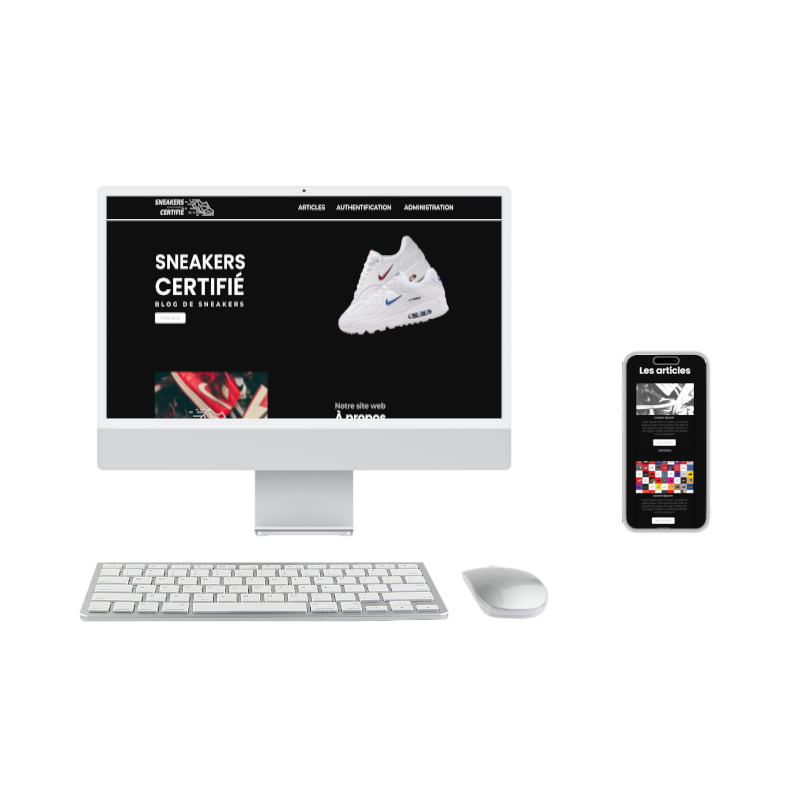
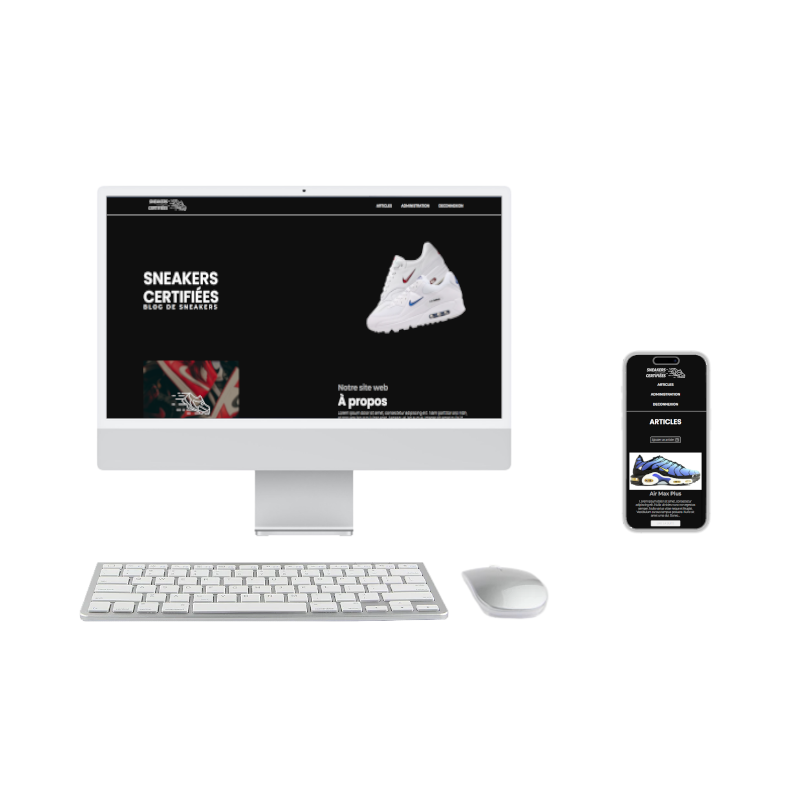
last commit

diff --git a/views/projects/sneakers-certifie.html b/views/projects/sneakers-certifie.html
@@ -28,18 +28,20 @@
         </nav>
         <section class="flex-center">
             <article>
-                <h1>SNEAKERS CERTIFIÉ</h1>
+                <h1>SNEAKERS CERTIFIÉES</h1>
                 <hr>
                 <h2>DESCRIPTION</h2>
-                <p>Ce projet a été réalisé lors de ma formation. Sneakers Certifié est un blog de chaussures fait avec une API REST que j'ai réalisé pour la première fois avec des JSON Web Token pour manipuler l'API.</p>
+                <p>Ce projet a été réalisé lors de ma formation. Sneakers Certifiées est un blog de chaussures où l'administrateur peut publier des articles sur des paires de sneakers. Les utilisateurs eux peuvent publier des commentaires.</p>
                 <hr>
                 <h3>TECHNOLOGIES</h3>
                 <div>
                     <img src="../../assets/img/logo-description/CSS.png" alt="">
                     <img src="../../assets/img/logo-description/JavaScript.png" alt="">
                     <img src="../../assets/img/logo-description/php.png" alt="">
-                    <img src="../../assets/img/logo-description/JWT.png" alt="">
                 </div>
+                <a href="https://github.com/LuigiG34/SneakersBlog" target="_blank" rel="noopener noreferrer">
+                    <button>Voir le code</button>
+                </a>
             </article>
             <article class="flex-center">
                 <img src="../../assets/img/desktop-mobile/sneakers-certifie.png" alt="">
@@ -48,7 +50,7 @@
 
         <hr>
         <footer>
-            <h3 class="text-center">MES RESEAUX</h3>
+            <h3 class="text-center">MES RÉSEAUX</h3>
             <section class="flex-center">
                 <a href="https://github.com/LuigiG34" target="_blank">
                     <img src="../../assets/img/icons/socials/github.svg" alt="">

diff --git a/views/projects/calculator.html b/views/projects/calculator.html
@@ -38,6 +38,12 @@
                     <img src="../../assets/img/logo-description/CSS.png" alt="">
                     <img src="../../assets/img/logo-description/JavaScript.png" alt="">
                 </div>
+                <a href="https://github.com/LuigiG34/CalculatorJS" target="_blank" rel="noopener noreferrer">
+                    <button>Voir le code</button>
+                </a>
+                <a href="https://luigig34.github.io/CalculatorJS/" target="_blank" rel="noopener noreferrer">
+                    <button>Voir le projet</button>
+                </a>
             </article>
             <article class="flex-center">
                 <img src="../../assets/img/desktop-mobile/calculator.png" alt="">
@@ -46,7 +52,7 @@
 
         <hr>
         <footer>
-            <h3 class="text-center">MES RESEAUX</h3>
+            <h3 class="text-center">MES RÉSEAUX</h3>
             <section class="flex-center">
                 <a href="https://github.com/LuigiG34" target="_blank">
                     <img src="../../assets/img/icons/socials/github.svg" alt="">

diff --git a/views/projects/debit-card.html b/views/projects/debit-card.html
@@ -38,6 +38,12 @@
                     <img src="../../assets/img/logo-description/CSS.png" alt="">
                     <img src="../../assets/img/logo-description/JavaScript.png" alt="">
                 </div>
+                <a href="https://github.com/LuigiG34/DebitCardUI" target="_blank" rel="noopener noreferrer">
+                    <button>Voir le code</button>
+                </a>
+                <a href="https://luigig34.github.io/DebitCardUI/" target="_blank" rel="noopener noreferrer">
+                    <button>Voir le projet</button>
+                </a>
             </article>
             <article class="flex-center">
                 <img src="../../assets/img/desktop-mobile/debit-card.png" alt="">
@@ -46,7 +52,7 @@
 
         <hr>
         <footer>
-            <h3 class="text-center">MES RESEAUX</h3>
+            <h3 class="text-center">MES RÉSEAUX</h3>
             <section class="flex-center">
                 <a href="https://github.com/LuigiG34" target="_blank">
                     <img src="../../assets/img/icons/socials/github.svg" alt="">

diff --git a/views/projects/weather-app.html b/views/projects/weather-app.html
@@ -39,6 +39,12 @@
                     <img src="../../assets/img/logo-description/JavaScript.png" alt="">
                     <img src="../../assets/img/logo-description/React.png" alt="">
                 </div>
+                <a href="https://github.com/LuigiG34/WeatherApp" target="_blank" rel="noopener noreferrer">
+                    <button>Voir le code</button>
+                </a>
+                <a href="https://luigig34.github.io/WeatherApp/" target="_blank" rel="noopener noreferrer">
+                    <button>Voir le projet</button>
+                </a>
             </article>
             <article class="flex-center">
                 <img src="../../assets/img/desktop-mobile/meteo.png" alt="">
@@ -47,7 +53,7 @@
 
         <hr>
         <footer>
-            <h3 class="text-center">MES RESEAUX</h3>
+            <h3 class="text-center">MES RÉSEAUX</h3>
             <section class="flex-center">
                 <a href="https://github.com/LuigiG34" target="_blank">
                     <img src="../../assets/img/icons/socials/github.svg" alt="">

diff --git a/views/projects/space-invaders.html b/views/projects/space-invaders.html
@@ -38,6 +38,12 @@
                     <img src="../../assets/img/logo-description/CSS.png" alt="">
                     <img src="../../assets/img/logo-description/JavaScript.png" alt="">
                 </div>
+                <a href="https://github.com/LuigiG34/GameJS" target="_blank" rel="noopener noreferrer">
+                    <button>Voir le code</button>
+                </a>
+                <a href="https://luigig34.github.io/GameJS/" target="_blank" rel="noopener noreferrer">
+                    <button>Voir le projet</button>
+                </a>
             </article>
             <article class="flex-center">
                 <img src="../../assets/img/desktop-mobile/space-invaders.png" alt="">
@@ -46,7 +52,7 @@
 
         <hr>
         <footer>
-            <h3 class="text-center">MES RESEAUX</h3>
+            <h3 class="text-center">MES RÉSEAUX</h3>
             <section class="flex-center">
                 <a href="https://github.com/LuigiG34" target="_blank">
                     <img src="../../assets/img/icons/socials/github.svg" alt="">

diff --git a/views/projects/bullet-journal.html b/views/projects/bullet-journal.html
@@ -39,6 +39,9 @@
                     <img src="../../assets/img/logo-description/Elementor.png" alt="">
                     <img src="../../assets/img/logo-description/WooCommerce.png" alt="">
                 </div>
+                <a href="https://bullet.lespetitspapiersdeflo.com/" target="_blank" rel="noopener noreferrer">
+                    <button>Voir le projet</button>
+                </a>
             </article>
             <article class="flex-center">
                 <img src="../../assets/img/desktop-mobile/bullet-journal.png" alt="">
@@ -47,7 +50,7 @@
 
         <hr>
         <footer>
-            <h3 class="text-center">MES RESEAUX</h3>
+            <h3 class="text-center">MES RÉSEAUX</h3>
             <section class="flex-center">
                 <a href="https://github.com/LuigiG34" target="_blank">
                     <img src="../../assets/img/icons/socials/github.svg" alt="">

diff --git a/views/projects/potager-de-sante.html b/views/projects/potager-de-sante.html
@@ -40,6 +40,9 @@
                     <img src="../../assets/img/logo-description/WooCommerce.png" alt="">
                     <img src="../../assets/img/logo-description/Moodle.png" alt="">
                 </div>
+                <a href="https://www.formationlepotagerdesante.com/" target="_blank" rel="noopener noreferrer">
+                    <button>Voir le projet</button>
+                </a>
             </article>
             <article class="flex-center">
                 <img src="../../assets/img/desktop-mobile/potager-sante.png" alt="">
@@ -48,7 +51,7 @@
 
         <hr>
         <footer>
-            <h3 class="text-center">MES RESEAUX</h3>
+            <h3 class="text-center">MES RÉSEAUX</h3>
             <section class="flex-center">
                 <a href="https://github.com/LuigiG34" target="_blank">
                     <img src="../../assets/img/icons/socials/github.svg" alt="">

diff --git a/views/projects/bam-concept.html b/views/projects/bam-concept.html
@@ -38,6 +38,10 @@
                     <img src="../../assets/img/logo-description/Wordpress.png" alt="">
                     <img src="../../assets/img/logo-description/Elementor.png" alt="">
                 </div>
+                
+                <a href="https://bam-concept.fr/" target="_blank" rel="noopener noreferrer">
+                    <button>Voir le projet</button>
+                </a>
             </article>
             <article class="flex-center">
                 <img src="../../assets/img/desktop-mobile/bam-concept.png" alt="">
@@ -46,7 +50,7 @@
 
         <hr>
         <footer>
-            <h3 class="text-center">MES RESEAUX</h3>
+            <h3 class="text-center">MES RÉSEAUX</h3>
             <section class="flex-center">
                 <a href="https://github.com/LuigiG34" target="_blank">
                     <img src="../../assets/img/icons/socials/github.svg" alt="">

diff --git a/views/projects/divin-cocktail.html b/views/projects/divin-cocktail.html
@@ -39,6 +39,9 @@
                     <img src="../../assets/img/logo-description/Elementor.png" alt="">
                     <img src="../../assets/img/logo-description/WooCommerce.png" alt="">
                 </div>
+                <a href="https://www.divincocktails.com/" target="_blank" rel="noopener noreferrer">
+                    <button>Voir le projet</button>
+                </a>
             </article>
             <article class="flex-center">
                 <img src="../../assets/img/desktop-mobile/divin-cocktail.png" alt="">
@@ -47,7 +50,7 @@
 
         <hr>
         <footer>
-            <h3 class="text-center">MES RESEAUX</h3>
+            <h3 class="text-center">MES RÉSEAUX</h3>
             <section class="flex-center">
                 <a href="https://github.com/LuigiG34" target="_blank">
                     <img src="../../assets/img/icons/socials/github.svg" alt="">

diff --git a/views/projects/enimad-invest.html b/views/projects/enimad-invest.html
@@ -38,6 +38,9 @@
                     <img src="../../assets/img/logo-description/Wordpress.png" alt="">
                     <img src="../../assets/img/logo-description/Elementor.png" alt="">
                 </div>
+                <a href="https://www.enimad-invest.com/" target="_blank" rel="noopener noreferrer">
+                    <button>Voir le projet</button>
+                </a>
             </article>
             <article class="flex-center">
                 <img src="../../assets/img/desktop-mobile/enimad-invest.png" alt="">
@@ -46,7 +49,7 @@
 
         <hr>
         <footer>
-            <h3 class="text-center">MES RESEAUX</h3>
+            <h3 class="text-center">MES RÉSEAUX</h3>
             <section class="flex-center">
                 <a href="https://github.com/LuigiG34" target="_blank">
                     <img src="../../assets/img/icons/socials/github.svg" alt="">

diff --git a/views/projects/mediabat.html b/views/projects/mediabat.html
@@ -38,6 +38,9 @@
                     <img src="../../assets/img/logo-description/CSS.png" alt="">
                     <img src="../../assets/img/logo-description/JavaScript.png" alt="">
                 </div>
+                <a href="https://github.com/LuigiG34/Mediabat" target="_blank" rel="noopener noreferrer">
+                    <button>Voir le code</button>
+                </a>
             </article>
             <article class="flex-center">
                 <img src="../../assets/img/desktop-mobile/mediabat.png" alt="">
@@ -46,7 +49,7 @@
 
         <hr>
         <footer>
-            <h3 class="text-center">MES RESEAUX</h3>
+            <h3 class="text-center">MES RÉSEAUX</h3>
             <section class="flex-center">
                 <a href="https://github.com/LuigiG34" target="_blank">
                     <img src="../../assets/img/icons/socials/github.svg" alt="">

diff --git a/assets/css/projects.css b/assets/css/projects.css
@@ -19,6 +19,17 @@ p{
     padding: 0 0 25px 0;
 }
 
+button {
+    box-shadow: inset 0 0 5px rgb(45 69 218);
+    font-size: 10px;
+    cursor: pointer;
+    background-color: var(--white);
+    color: var(--main);
+    font-family: var(--sub);
+    padding: 5px 10px;
+    border-radius: 5px;
+}
+
 @media screen and (max-width: 1440px) {
     img{
         width: 500px;
